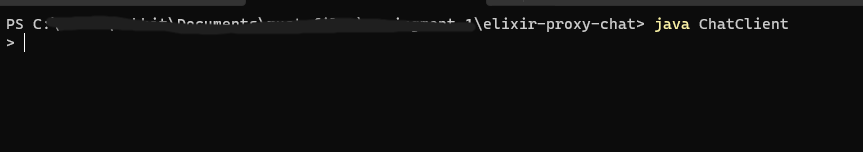
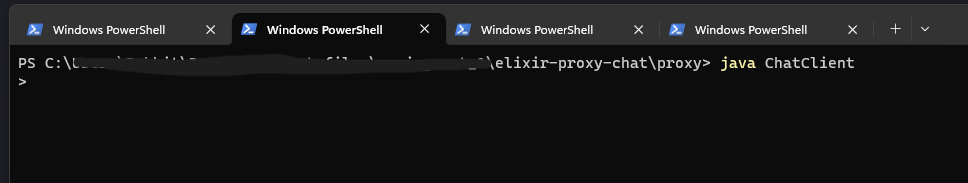
update instructions in the README file

diff --git a/README.md b/README.md
@@ -13,21 +13,31 @@ Ensure that you have Java and Erlang/Elixir installed. You can download them usi
 2. Clone the repository using the following command:
 git pull https://github.com/daquioag/elixir-proxy-chat.git
 
-Alternatively, you can download the ZIP folder from the following location: [Elixir Proxy Chat ZIP Folder](https://github.com/daquioag/elixir-proxy-chat/blob/main/elixir-proxy-chat.zip)
+3. To fully test this application, you will need four terminal tabs.
+4. In the first tab, navigate to the 'Chat' directory and run the following command based on your operating system: 
+* (windows) iex.bat --sname proxy -S mix 
+* (mac) iex --sname proxy -S mix 
 
-3. To fully test this application, you will need three terminal tabs.
-4. In the first tab, navigate to the 'Chat' directory and run the following command based on 
-* (windows) iex.bat -S mix 
-* (mac) iex -S mix 
+5. In the second tab, navigate to the 'Proxy' directory and run the following command based on your operating system: 
+* (windows) iex.bat --sname broadcast -S mix 
+* (mac) iex --sname broadcast -S mix 
 
-You should see the Elixir interactive shell (iex).
+Note: 'proxy' and 'broadcast' are just random names; you can set them to anything you prefer. 
+
+You should see the Elixir interactive shell (iex) along with the hostname.
+"iex(proxy@hostname)1>"
 Reference Image:
-![mix_project](images/in3.png)
+![iex_terminal](images/in4.png)
 
+6. To set up a connection between the two nodes, run the following command in the 'broadcast' tab:
+Node.ping(:proxy@hostname)
 
-5. Open two more tabs in your terminal and change the directory to 'elixir-proxy-chat'.
-6. Run the following command in both tabs to start Java Chat Clients:
+If you receive the ':pong' response, that means you have successfully connected to the other node. ':pang' indicates that the connection was not established properly.
+Reference Image:
+![successful_connction](images/in5.png)
 
+7. Open two more tabs in your terminal and change the directory to to the 'Proxy' directoty.
+8. Run the following command in both tabs to start Java Chat Clients:
 * java ChatClient 
 
 Reference Image:
@@ -40,12 +50,13 @@ This chat application supports four commands: /LIST, /NICK (nickname), /BC (mess
 
 * /LIST: Lists users in the chat.
 * /NICK (nickname): Sets your nickname. Nicknames must be unique, start with an alphabet character, and follow specific formatting rules.
+    * nickname must start with an alphabet followed by characters that are either alphanumeric or the underscore character and it can have a maximum length of 12 characters
 * /BC (message): Broadcasts a message to all users in the chat.
 * /MSG (nickname) (message): Sends a private message to a specific user.
 
 Setting a Nickname:
 Use the /NICK command followed by your desired nickname.
-Nicknames must be unique and adhere to the specified naming conventions.
+Nicknames must be unique and adhere to the specified naming conventions: must start with an alphabet followed by characters that are either alphanumeric or the underscore character and it can have a maximum length of 12 characters
 A successful response indicates that your nickname is set.
 
 Sending Messages:
@@ -59,3 +70,9 @@ Avoid using /NICK or /BC without additional arguments as these are considered in
 The /LIST command works without setting a nickname.
 Make sure your nickname follows the naming rules for successful nickname setting.
 
+Some reference images for an example conversaion between 2 clients. 
+
+
+![homer_side](images/in7.png)
+
+![bart_side](images/in6.png)
